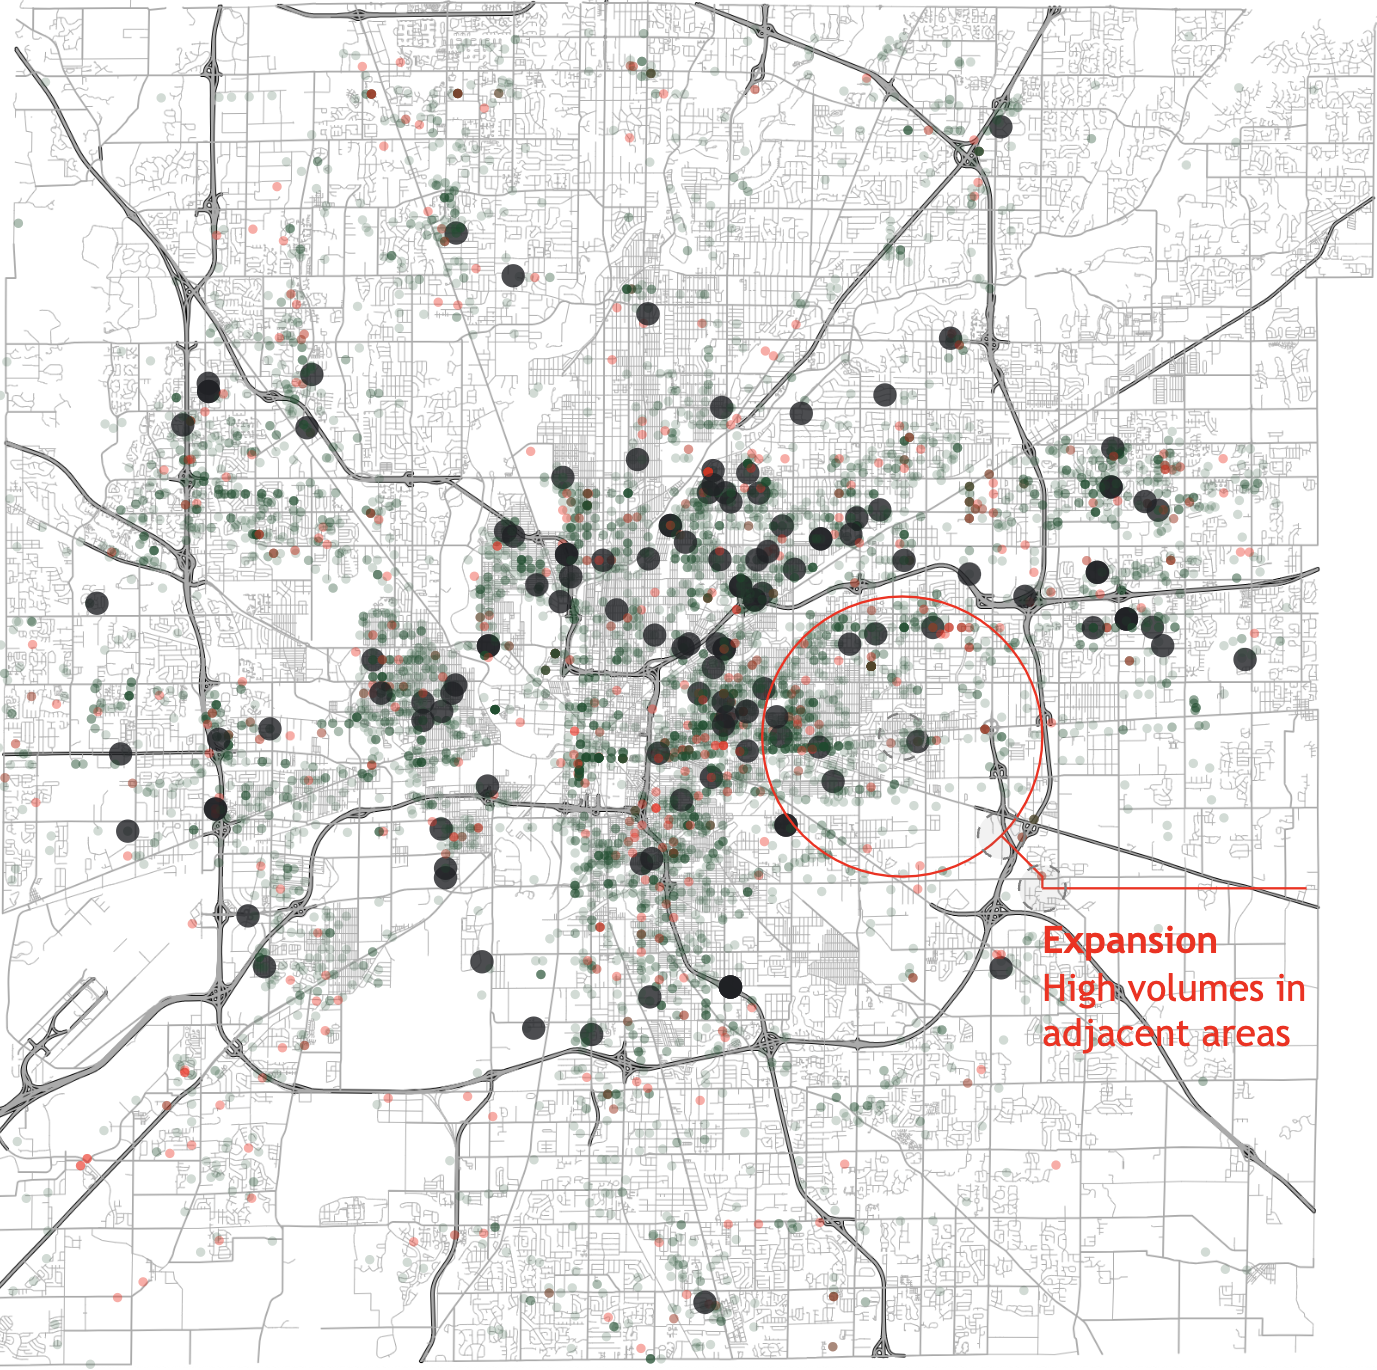
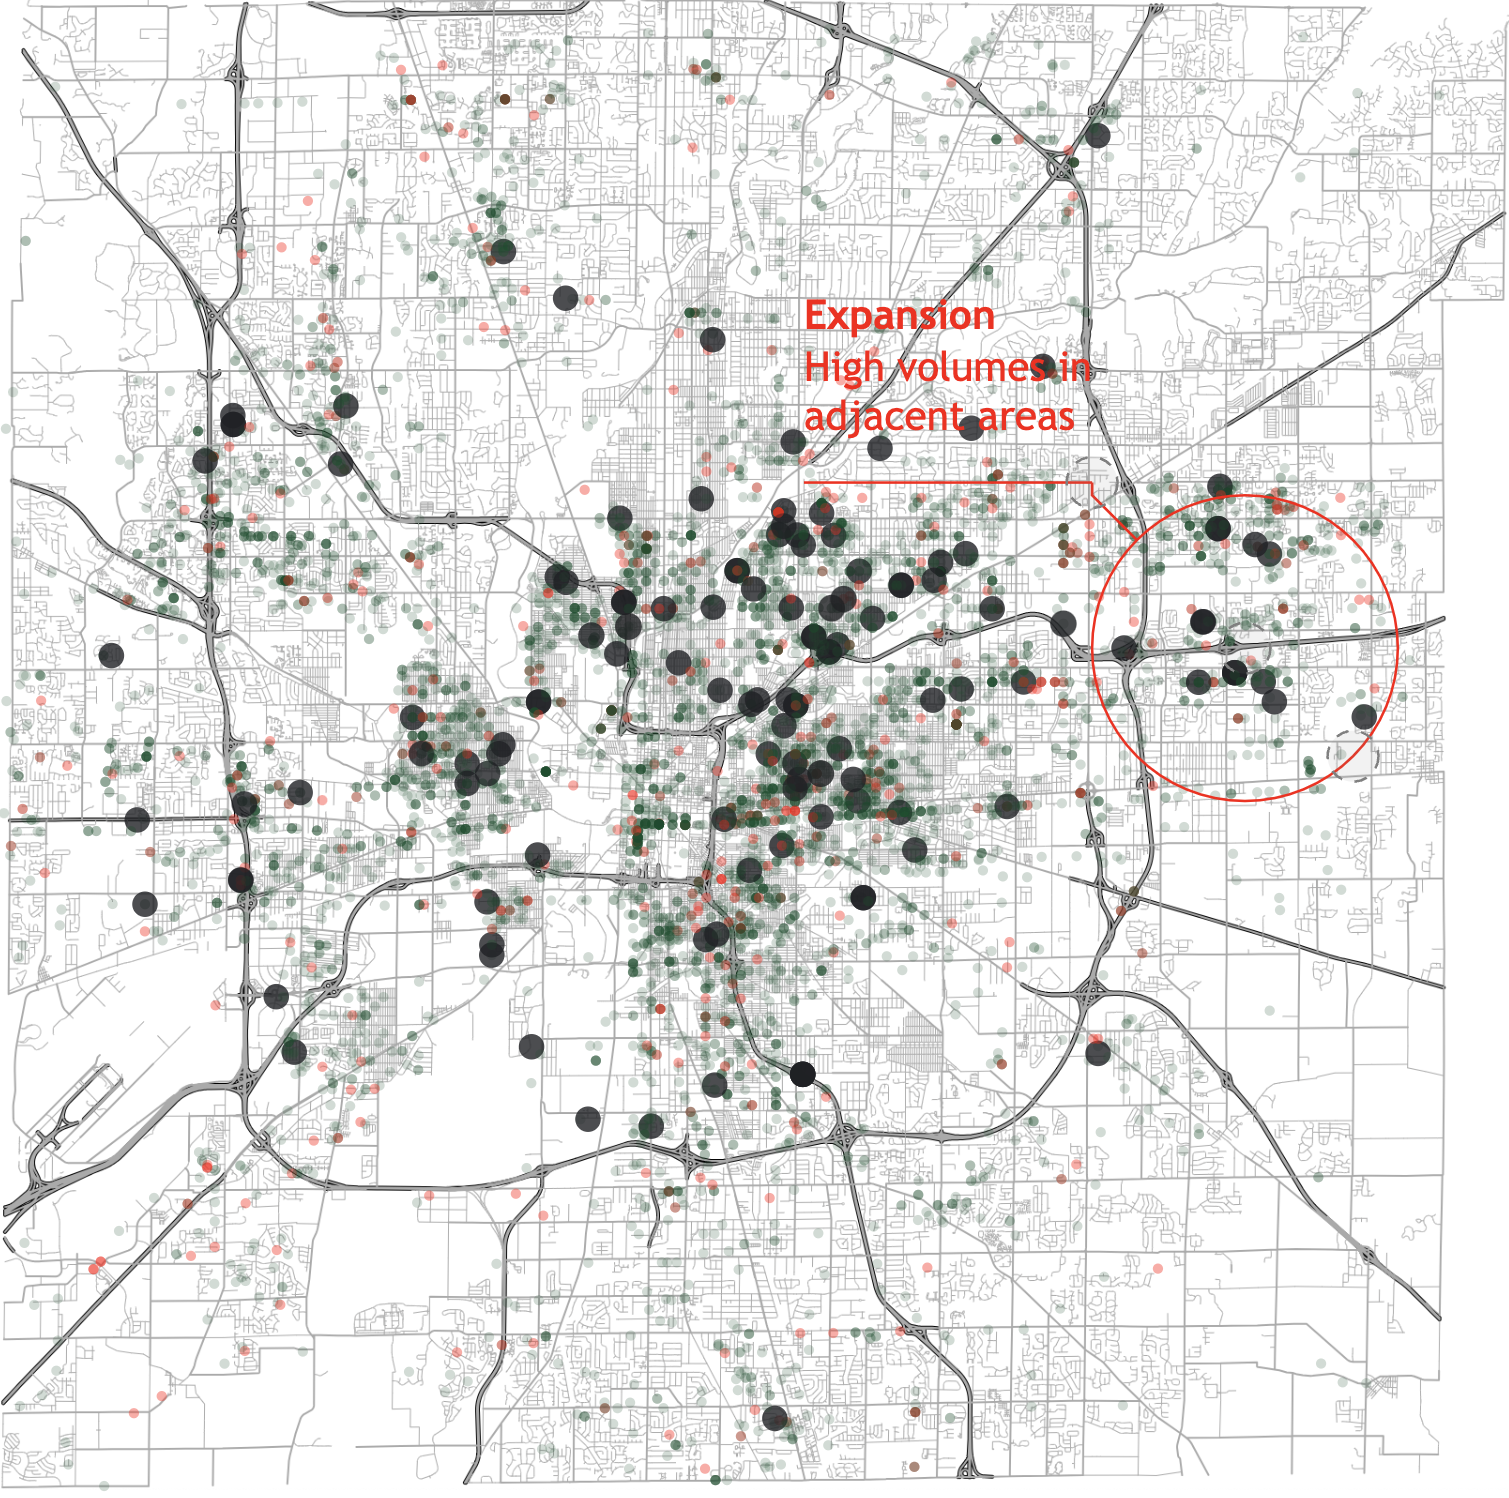
fixed annotation

diff --git a/index.html b/index.html
@@ -528,10 +528,10 @@ function buildAnnotation2014(){
       title: "Expansion"
     },
     //can use x, y directly instead of data
-    y: 320,
-    x: 390,
-    dx: 60,
-    dy: 65,
+    y: 260,
+    x: 490,
+    dx: -60,
+    dy: -65,
     subject: {
       radius: 60,
       radiusPadding: 0
@@ -616,7 +616,8 @@ async function init() {
   // ================================================
 
   // Prep Animation Variables
-  let years  = [2007, 2008, 2009, 2010, 2011, 2012, 2014, 2015, 2016, 2017, 2018, 2019, 2021];
+  //let years  = [2007, 2008, 2009, 2010, 2011, 2012, 2014, 2015, 2016, 2017, 2018, 2019, 2021];
+  let years  = [2014];
   let introDelay = 3000;
   let dur = 2000;
   let animStart = 200;
